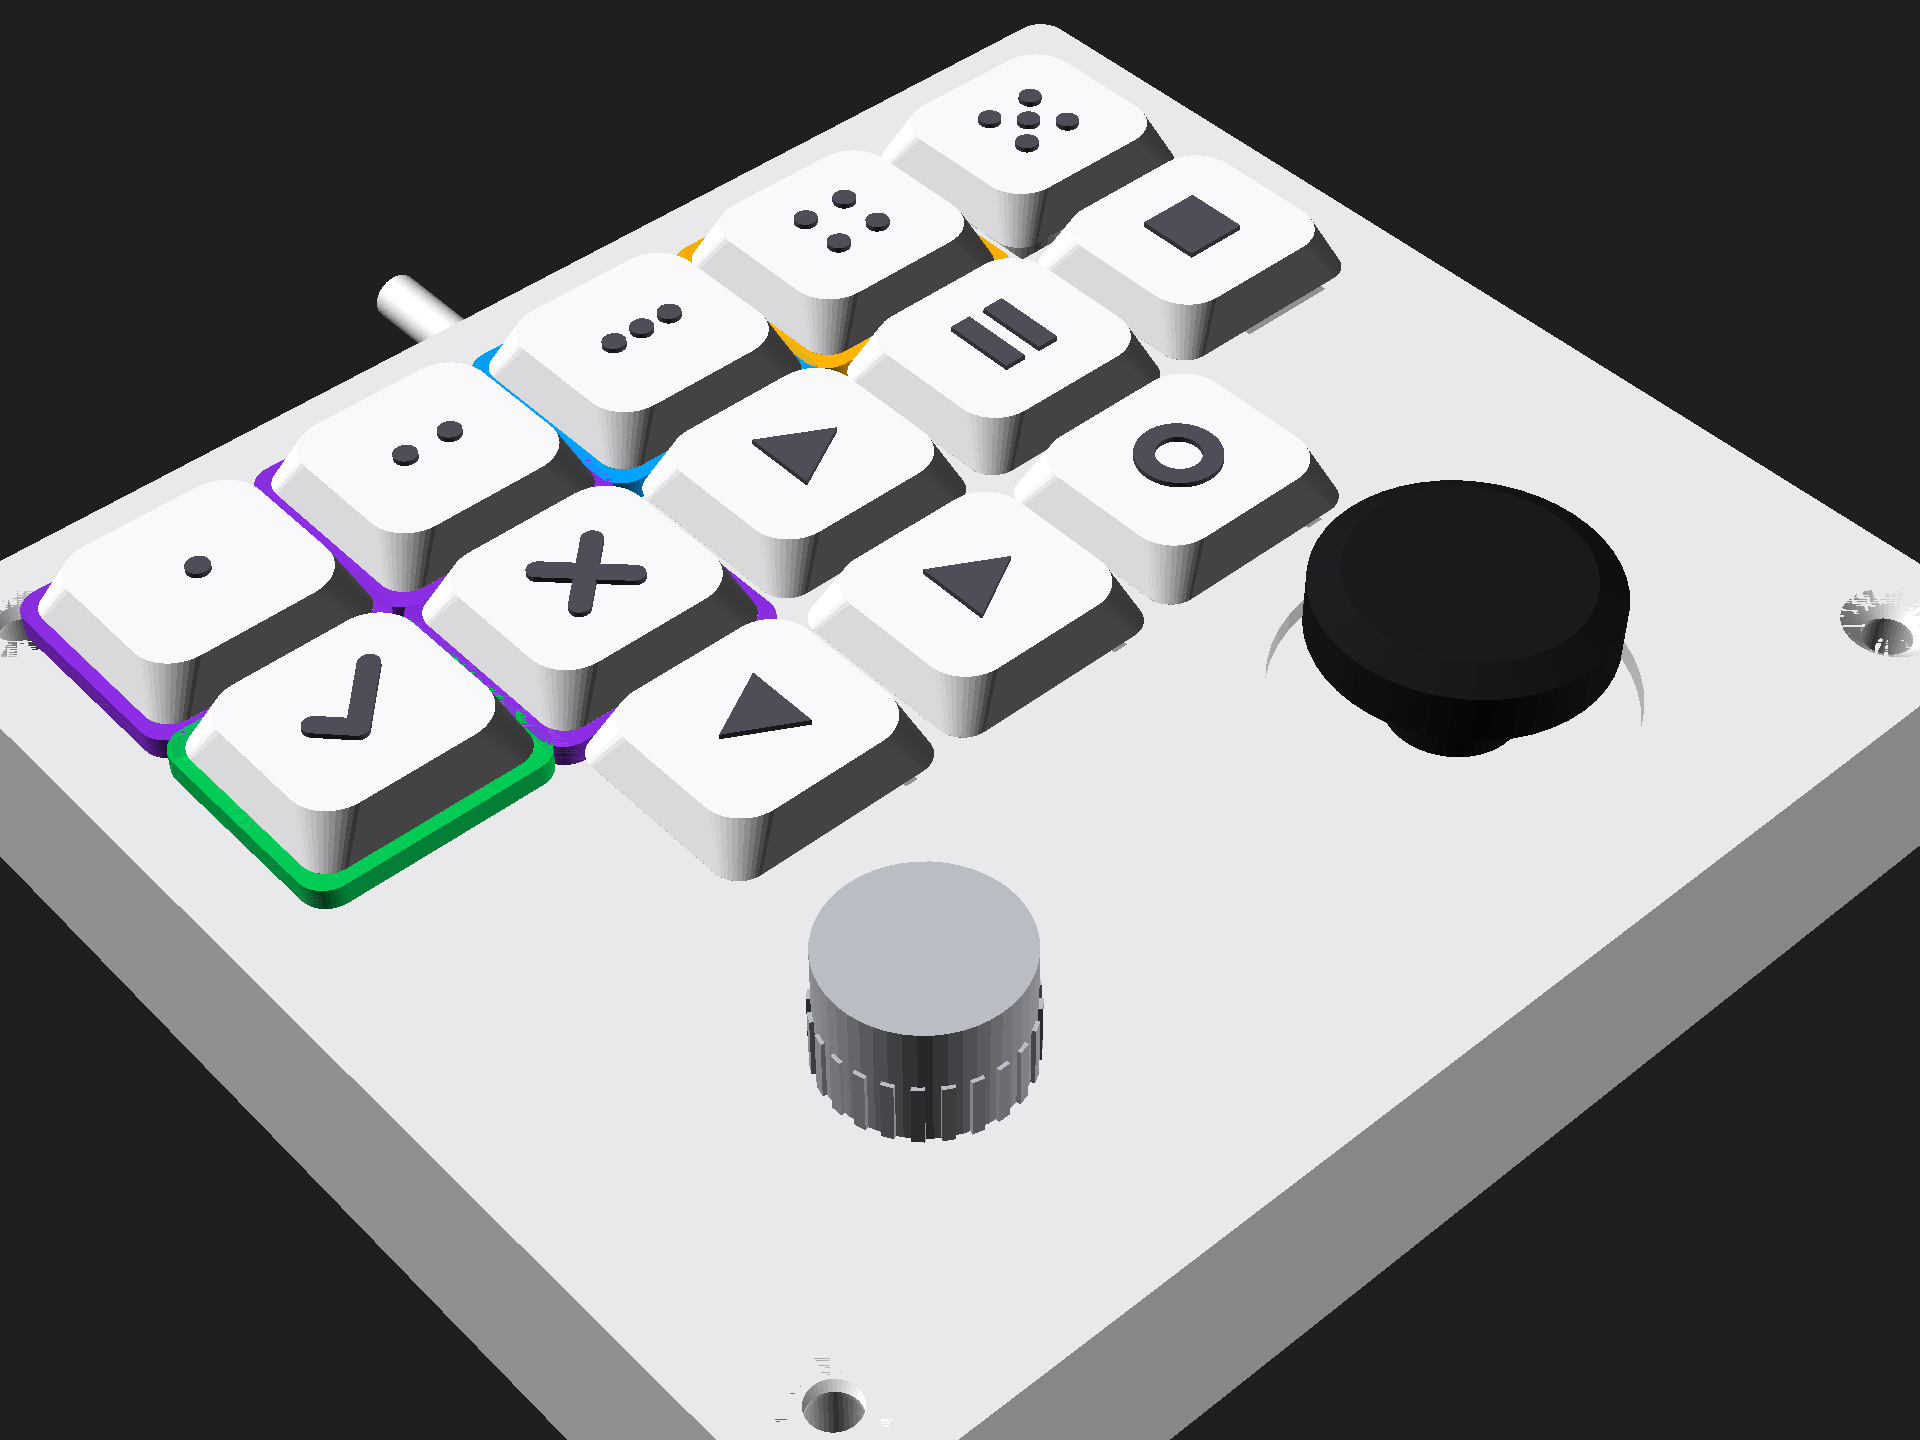
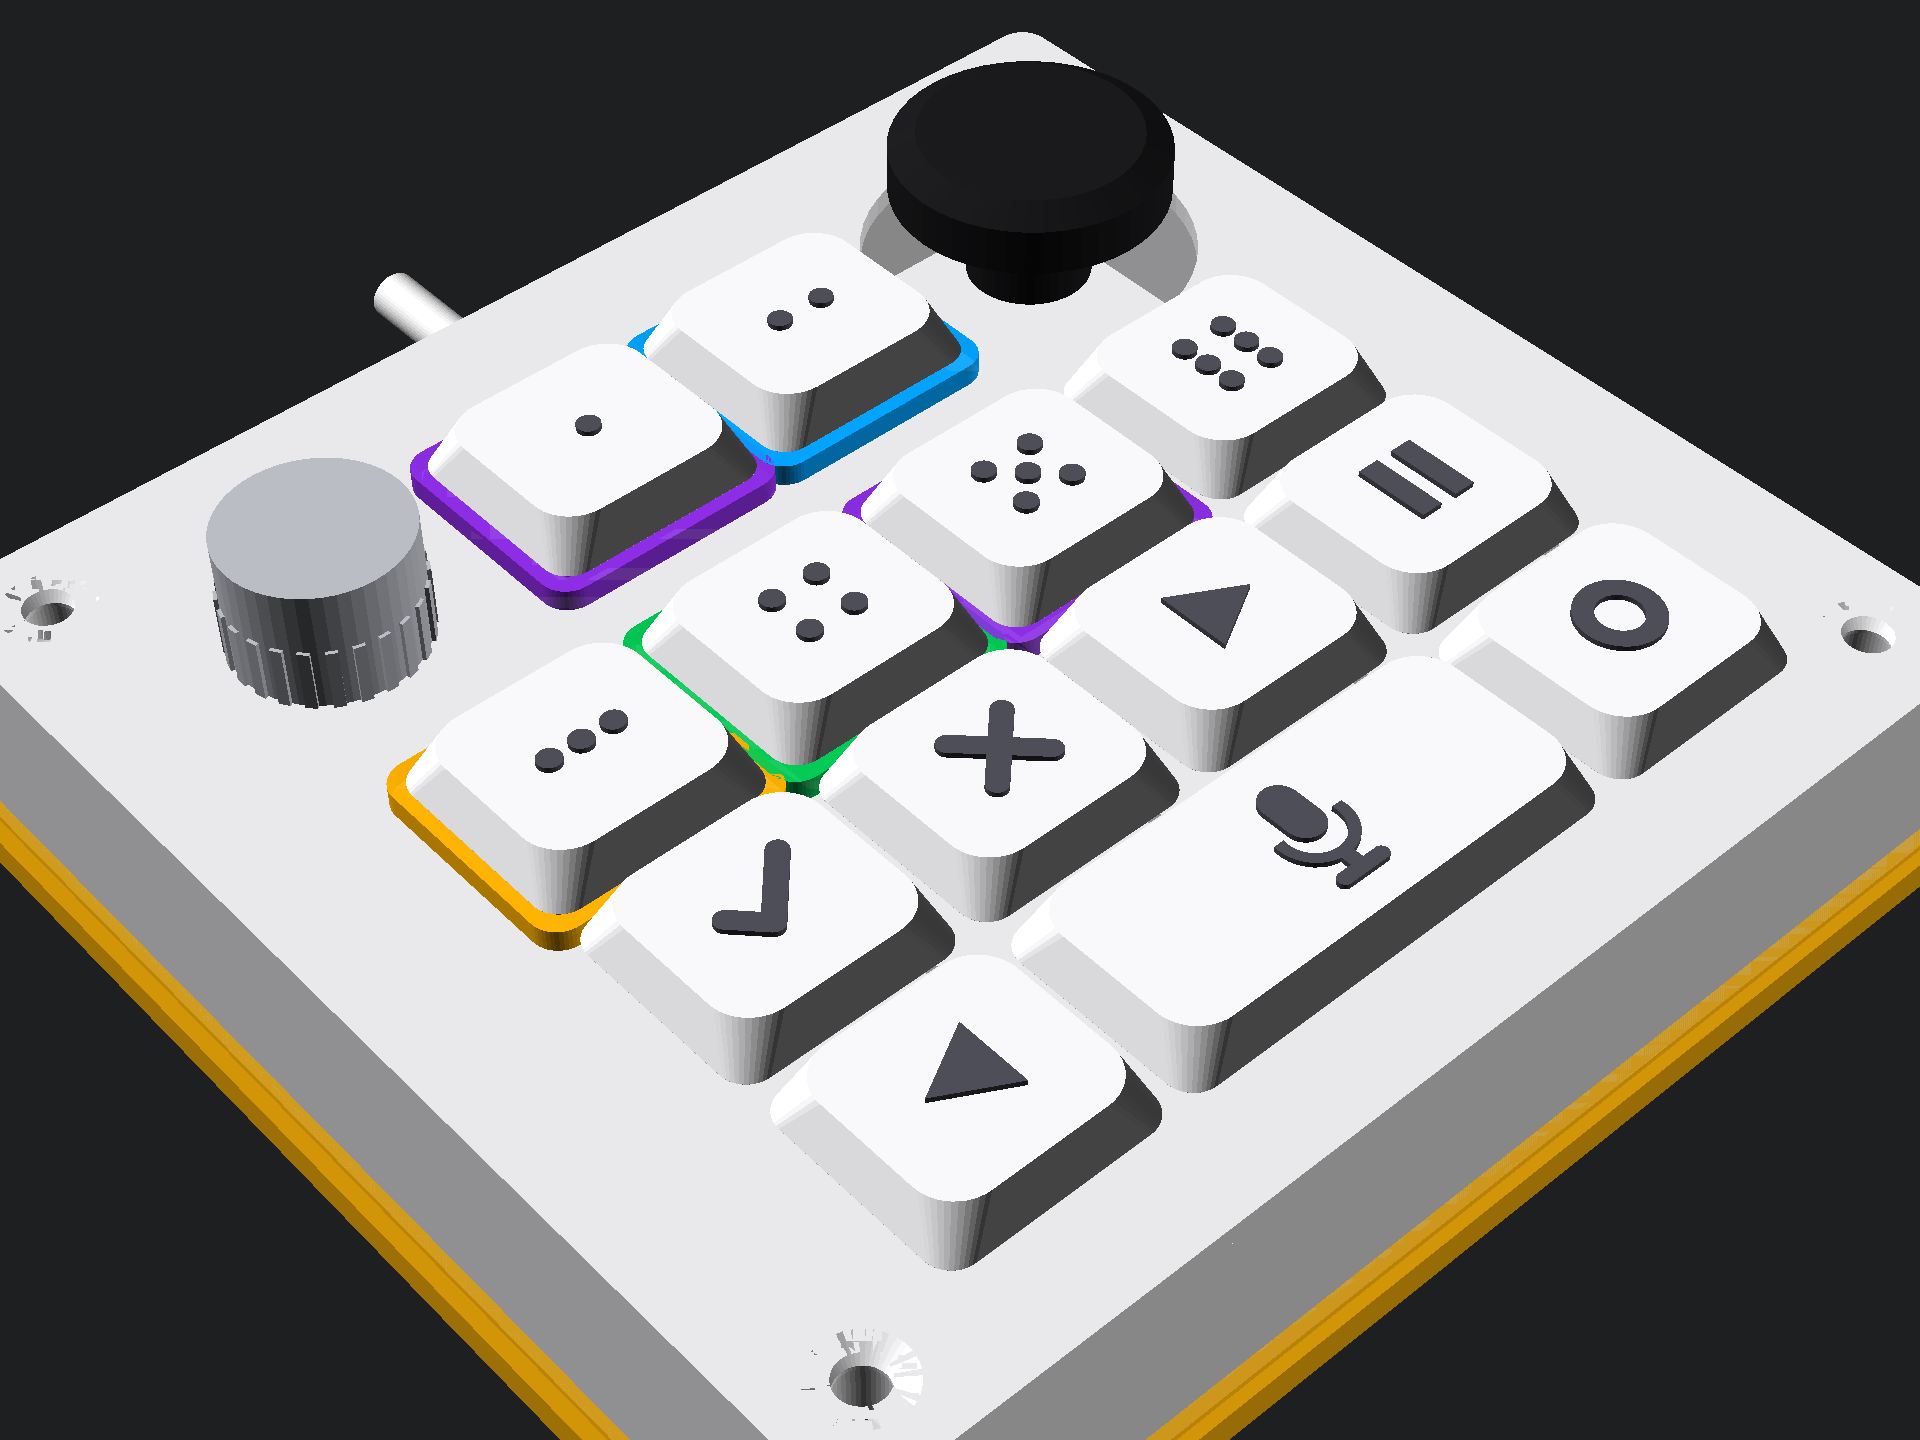
Document edge ring and new layout; update renders
Protocol: led key indexes 13-18 / -2, hello "edge" field. Wiring: LED
chain order and translucent rim note. BOM: 19 LEDs. Config example:
[edge] section, new key index map, talk-bar binding hint. New renders.

Claude-Session: https://claude.ai/code/session_01UapcB2kioso1M8tPnkBJof

diff --git a/hardware/WIRING.md b/hardware/WIRING.md
@@ -13,10 +13,10 @@ or put a single 1N4148 in series with the 5V feed to drop it.
 
 | signal | GPIO | notes |
 |--------|------|-------|
-| K0–K4 (top row) | 4, 5, 6, 7, 15 | switch → GPIO, other leg → GND |
-| K5–K9 (middle row) | 16, 17, 18, 21, 38 | |
-| K10–K12 (bottom row) | 39, 40, 41 | |
-| LED data | 47 | → DIN of first SK6812; chain DOUT→DIN |
+| K0–K1 (top band) + K2–K4 | 4, 5, 6, 7, 15 | switch → GPIO, other leg → GND |
+| K5 + K6–K9 (command row) | 16, 17, 18, 21, 38 | |
+| K10–K12 (bottom row, K11 = talk bar) | 39, 40, 41 | |
+| LED data | 47 | → DIN of first SK6812; chain: 13 key LEDs, then 6 edge LEDs |
 | Encoder A | 1 | EC11 A |
 | Encoder B | 2 | EC11 B |
 | Encoder push | 42 | EC11 switch pins |
@@ -73,6 +73,15 @@ if needed.
   LED chain:      5V ──┬── all SK6812 VDD
                   GND ─┴── all SK6812 GND    data daisy-chained K0→K12
 ```
+
+## LED chain order
+
+19 LEDs on one chain: key LEDs K0→K12 first (indexes 0–12), then the six
+edge-glow LEDs (indexes 13–18) mounted face-down or face-out around the
+shell perimeter, shining into the translucent bottom rim. Print the shell
+(or just its bottom band) in translucent filament to get the diffused
+edge glow; skip the 6 LEDs entirely and the pad still works — the ring
+just stays dark.
 
 ## Soldering order
 

diff --git a/README.md b/README.md
@@ -12,8 +12,9 @@ to approve. Flick the stick to steer.
 
 *CAD render, straight from the OpenSCAD source in this repo
 (`part="display"`) — key LEDs shown in the daemon's default state colors:
-violet = thinking, blue = running, amber = waiting, green = done. No photo
-yet; the first physical build is pending. (An AI concept render lives in
+violet = thinking, blue = running, amber = waiting, green = done; the
+edge ring glows with whichever agent needs attention most. No photo yet;
+the first physical build is pending. (An AI concept render lives in
 [docs/images/hero.jpg](docs/images/hero.jpg) if you prefer the dream version.)*
 
 ## Why
@@ -46,7 +47,7 @@ swappable adapters — Claude Code today, anything tomorrow, no reflash.
 │ Claude Code├───────▶│                      │ over serial │   thirteen   │
 └────────────┘        │    thirteen-host     │   115200 8N1 │  (ESP32-S3)  │
 ┌────────────┐ NDJSON │                      │             │              │
-│ anything   ├───────▶│  adapters ──┐        │──── LEDs ──▶│ 13× SK6812   │
+│ anything   ├───────▶│  adapters ──┐        │──── LEDs ──▶│ 19× SK6812   │
 │ (stdin)    │        │  claude_code│ daemon │             │ 13× Choc     │
 └────────────┘        │  generic_st…│  ────  │◀── events ──│ EC11 encoder │
 ┌────────────┐        │  demo      ─┘        │             │ 2-axis stick │

diff --git a/protocol/PROTOCOL.md b/protocol/PROTOCOL.md
@@ -36,7 +36,7 @@ Device replies with `pong`.
 
 | field   | type   | notes                                              |
 |---------|--------|----------------------------------------------------|
-| `key`   | int    | 0–12, or `-1` for all keys                          |
+| `key`   | int    | 0–12 = key LEDs, 13–18 = edge-glow segments, `-1` = every LED, `-2` = the edge ring as a group |
 | `color` | string | `#RRGGBB` hex                                       |
 | `mode`  | string | `"solid"`, `"pulse"` (slow breathe), `"blink"` (hard on/off), `"off"` |
 
@@ -66,8 +66,11 @@ Device replies with `{"v": 1, "t": "keymap", "map": {...}}`.
 ### `hello` — sent once on boot / USB reconnect
 
 ```json
-{"v": 1, "t": "hello", "fw": "0.1.0", "proto": 1, "keys": 13}
+{"v": 1, "t": "hello", "fw": "0.1.0", "proto": 1, "keys": 13, "edge": 6}
 ```
+
+`edge` is the number of edge-glow LEDs after the key LEDs on the chain
+(0 if the build has none).
 
 ### `key` — key press / release
 

diff --git a/hardware/BOM.md b/hardware/BOM.md
@@ -8,7 +8,7 @@ eighth of a Codex Micro, plus you own the firmware.
 | 1 | ESP32-S3 SuperMini | 1 | €5–8 | The tiny (~22×18mm) S3 board. Any ESP32-S3 board with native USB works; the DevKitC-1 is the firmware's default env. |
 | 2 | Kailh Choc v1 switch | 13 | €6–9 | Low-profile, hot-swappable feel without a hotswap socket if you solder direct. Pick your weight; linear "Red Pro" (35g) suits rapid approvals. |
 | 3 | Choc keycaps (MBK or similar) | 13 | €5–8 | Or 3D-print them. One contrasting cap for the "approve" key is worth it. |
-| 4 | SK6812 MINI-E RGB LED | 13 | €2–4 | The MINI-E's legs stick out sideways — hand-solderable under each switch. Buy a few spares; they don't love hot-air rework. |
+| 4 | SK6812 MINI-E RGB LED | 19 | €3–5 | 13 under the keys + 6 for the edge-glow ring. The MINI-E's legs stick out sideways — hand-solderable. Buy spares; they don't love hot-air rework. |
 | 5 | EC11 rotary encoder (with push) | 1 | €1–2 | 15mm shaft + a knob you like. |
 | 6 | 2-axis analog joystick module | 1 | €1–3 | KY-023-style thumbstick module with X/Y pots and a push switch. |
 | 7 | M3 heat-set inserts | 4–6 | €1 | For the case; M3×5×4 short type. |
@@ -61,7 +61,7 @@ prices and shipping.
    (must be Choc v1 / PG1350, NOT Choc v2, NOT KS-33)
 2. MBK-profile Choc keycaps, blank, 1u — qty 13, any dark color + 1 accent
    color if available (must be Choc v1 stem, NOT MX)
-3. SK6812 MINI-E RGB LEDs — qty 15 (13 + spares).
+3. SK6812 MINI-E RGB LEDs — qty 25 (19 + spares).
    CRITICAL: the RGB version, NOT the RGBW variant, and MINI-E (with side
    legs), not the plain MINI.
 4. ESP32-S3 SuperMini dev board — qty 1. Must be ESP32-S3 (not C3/C6/H2!),